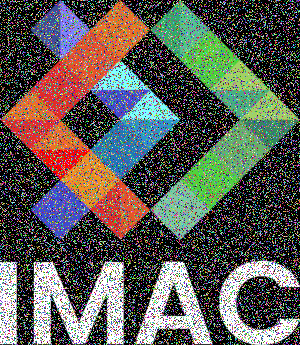
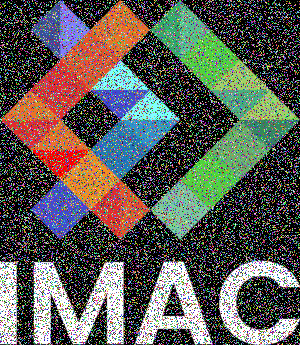
simplification of loop

diff --git a/src/main.cpp b/src/main.cpp
@@ -238,19 +238,16 @@ old version avec boucle imbriquée donc pas fou fou
             float const random_value = random_float(0.f, 1.f);
             if (random_value < 0.20)
             {
-                int const random_width = random_int(0, 30);
-                int const random_height = random_int(0, 10);
-                int const random_x = random_int(0, image.width() - random_width);
-                int const random_y = random_int(0, image.height() - random_height);
+                int const random_width = random_int(1, 25);
+                int const random_height = random_int(1, 10);
+                int const random_x = random_int(1, image.width() - random_width);
+                int const random_y = random_int(1, image.height() - random_height);
 
-                for (int i{0}; i < random_width; i++)
+                for (int i = 0; i < random_width && x + i < image.width(); i++)
                 {
-                    for (int j{0}; j < random_height; j++)
+                    for (int j = 0; j < random_height && y + j < image.height(); j++)
                     {
-                        if (x + i < image.width() && y + j < image.height())
-                        {
-                            newImage.pixel(x + i, y + j) = image.pixel(random_x + i, random_y + j);
-                        }
+                        newImage.pixel(x + i, y + j) = image.pixel(random_x + i, random_y + j);
                     }
                 }
                 x += random_width;
